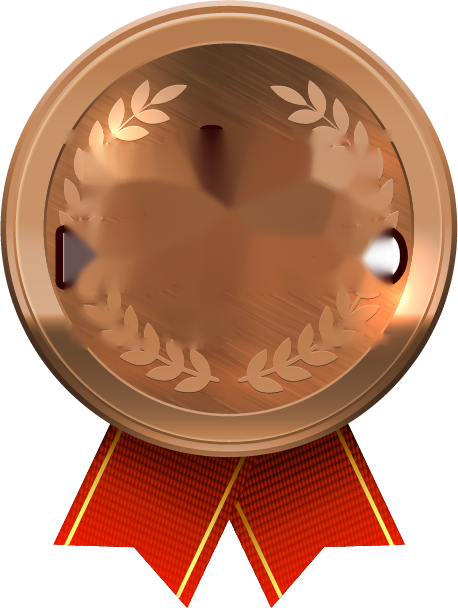
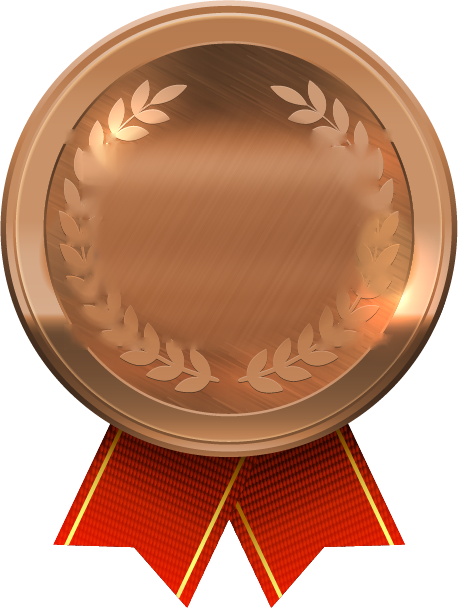
ป้ายเหรียญ: เกลี่ยพื้นกลางเหรียญใหม่ ลบรอยตัวหนังสือเดิม (ทองแดงเปื้อน)
Claude-Session: https://claude.ai/code/session_01YaEH6FZdq6go8nsu7drBUB

diff --git a/js/render.js b/js/render.js
@@ -69,7 +69,7 @@ const R = (() => {
   /** ป้ายเหรียญ: เหรียญเปล่า + ข้อความฟอนต์ Charm ขอบเข้ม */
   async function drawBadge(ctx, result, x, y, h) {
     const b = MEDAL[result]; if (!b) return;
-    const img = await loadImg('assets/badge_' + b + '_blank.png');
+    const img = await loadImg('assets/badge_' + b + '_blank.png?v=2');
     const w = h * img.width / img.height;
     ctx.drawImage(img, x, y, w, h);
     const cx = x + w / 2;
